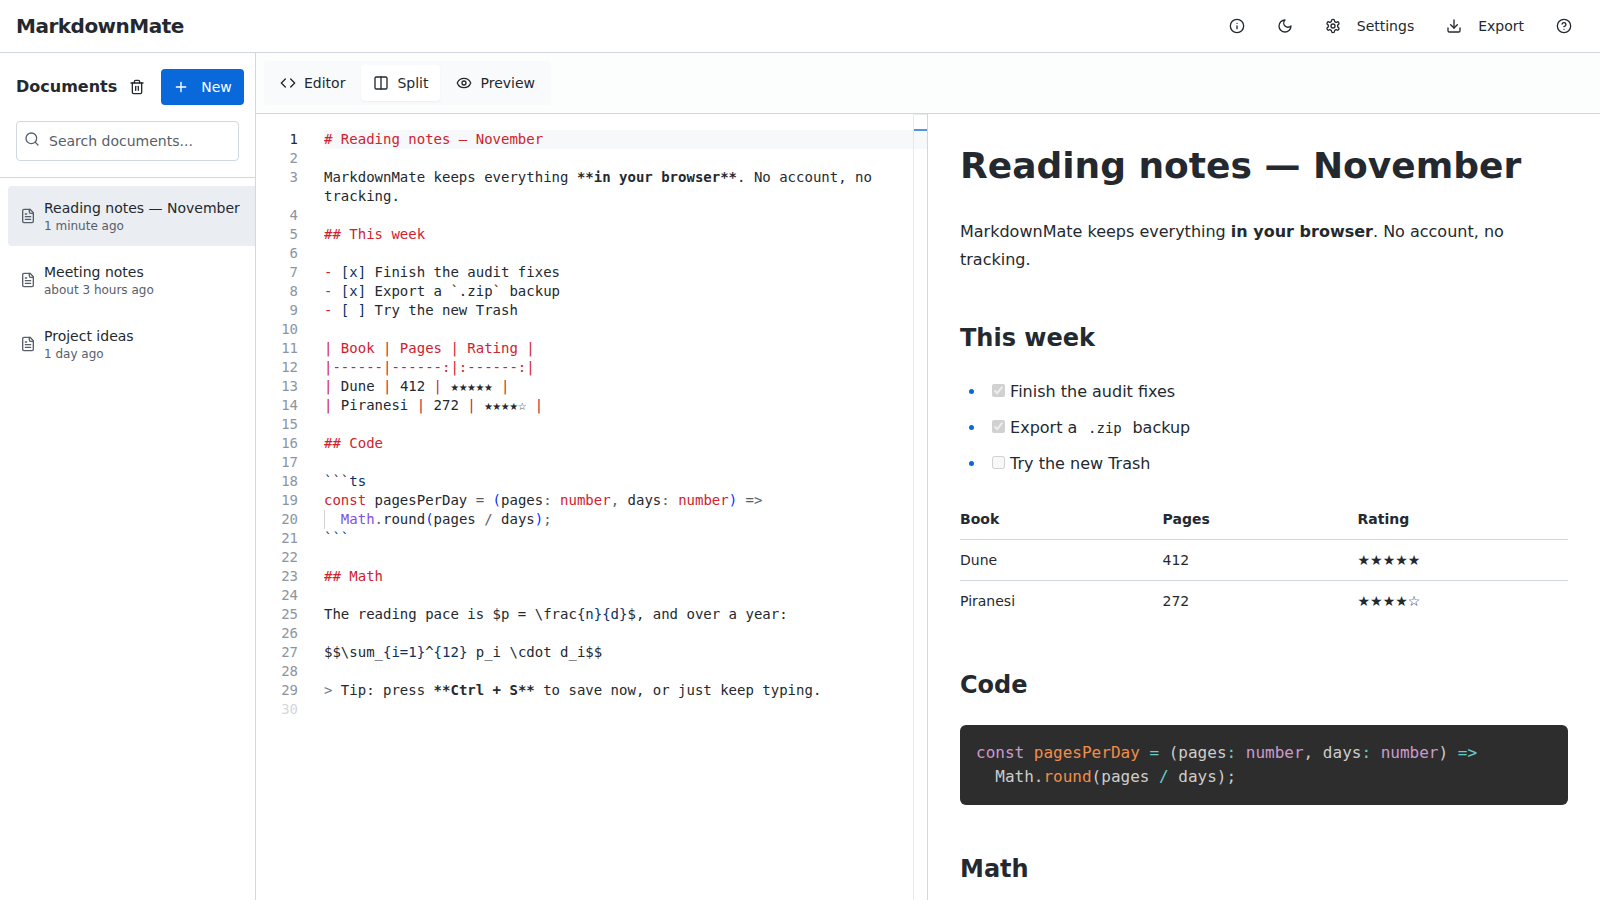
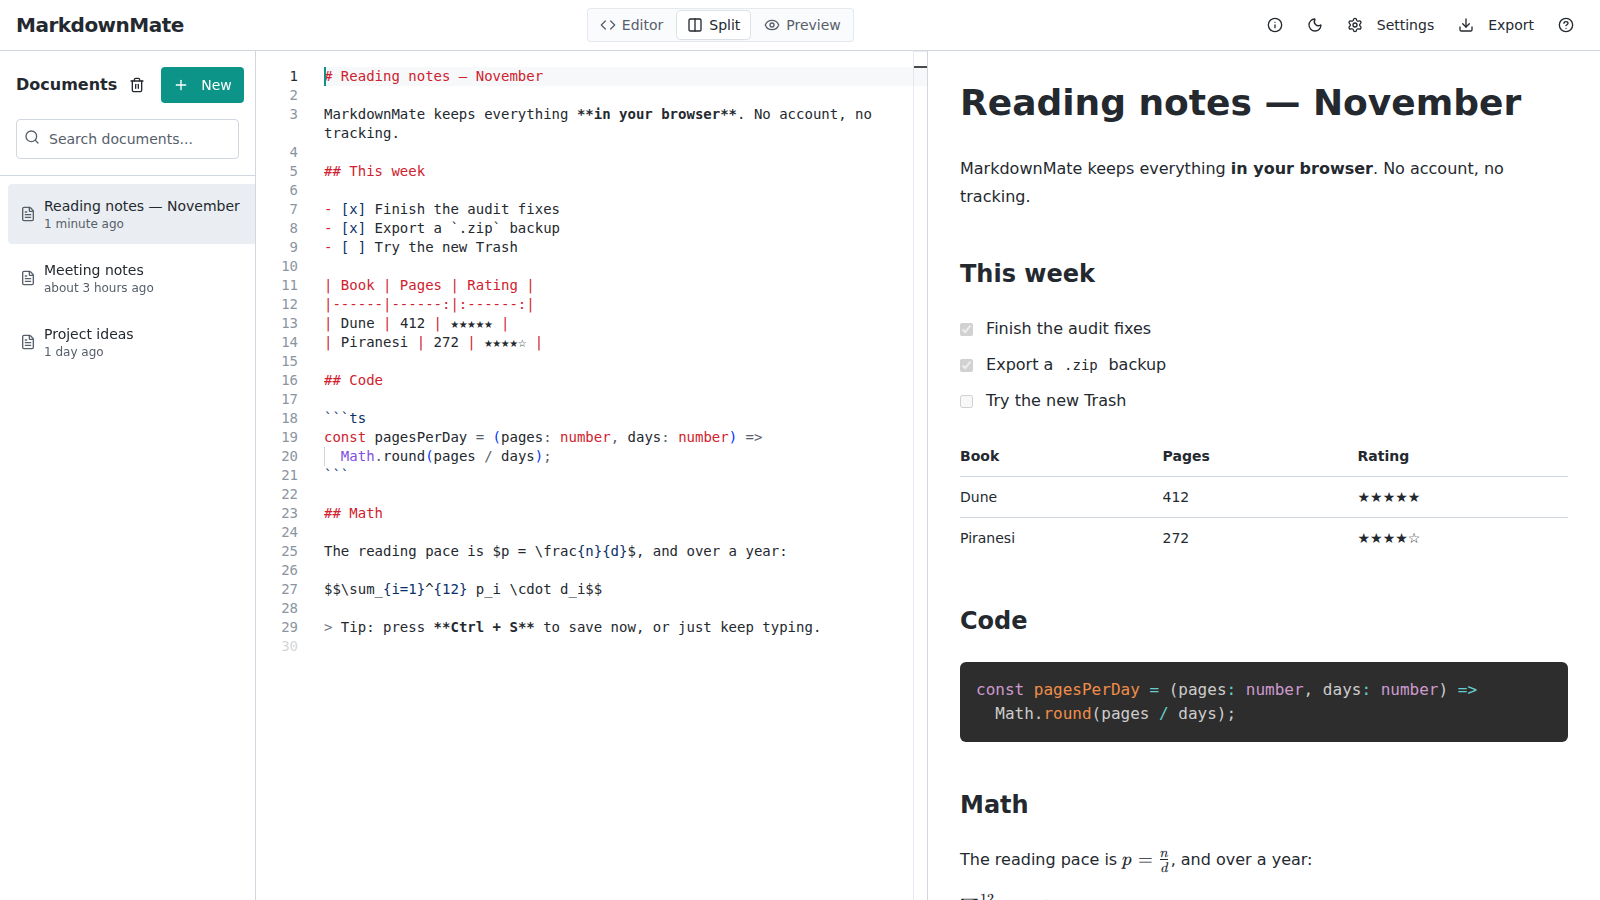
docs(readme): retake editor screenshot with the 3.5.1 teal accent UI

diff --git a/docs/screenshots/README.md b/docs/screenshots/README.md
@@ -4,7 +4,7 @@ Images used by the main [README](../../README.md).
 
 | File                   | Shows                                                                 |
 | ---------------------- | --------------------------------------------------------------------- |
-| `editor-interface.png` | Split view (v3.2.0): sidebar, Monaco editor, rendered preview         |
+| `editor-interface.png` | Split view (v3.5.1, teal accent): sidebar, Monaco editor, preview     |
 
 ## Retaking `editor-interface.png`
 
